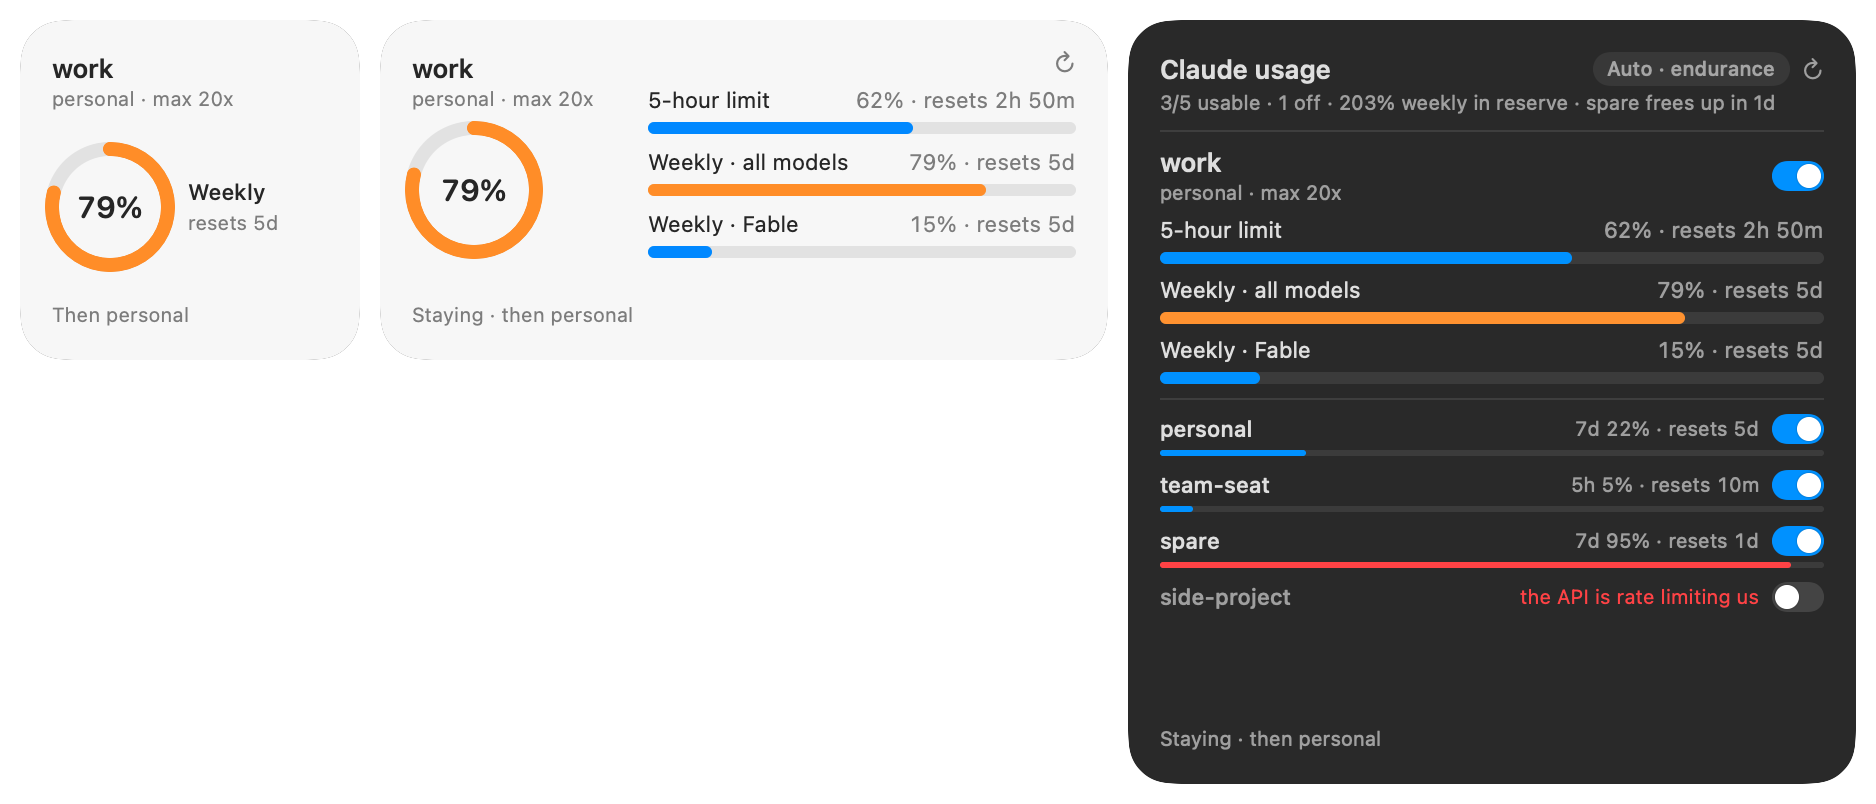
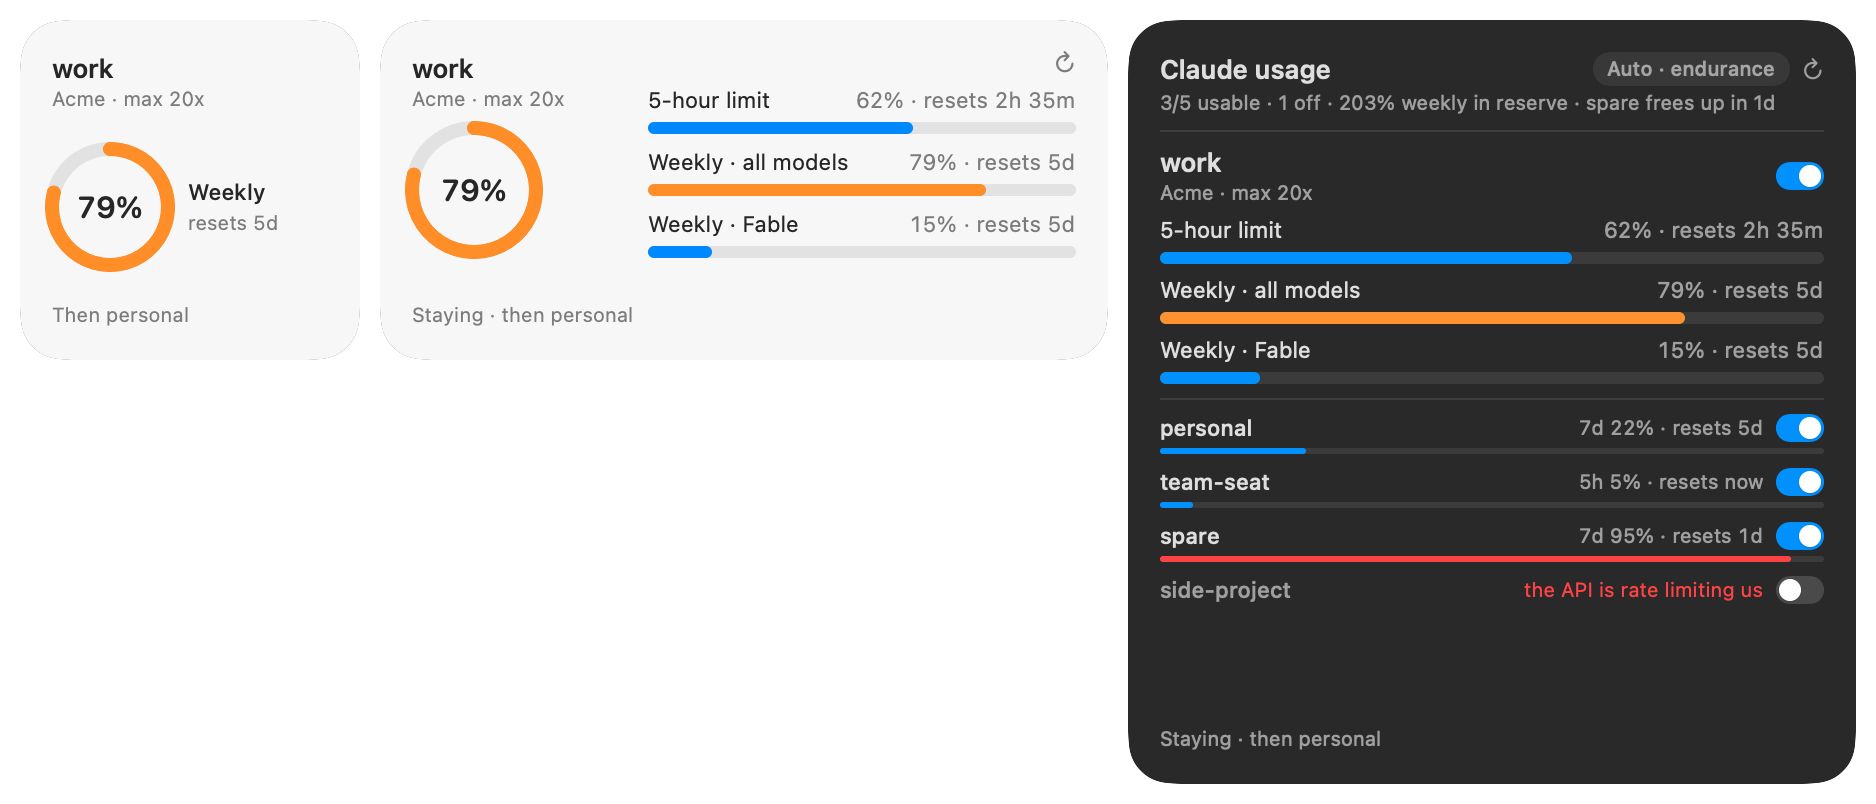
Widget switches drawn, not AppKit; README pictures from sample data
A real switch is an AppKit control, and WidgetKit shows those as a yellow
'not supported' square: the switch is now drawn, inside a plain button.

ClaudiniBar --menu-preview renders the open menu from a snapshot, light and
dark, using the same rows as the real one. The README's menu and widget
pictures are rendered from docs/sample-snapshot.json, whose accounts are made
up, so no account name or workspace is published.

diff --git a/menubar/main.swift b/menubar/main.swift
@@ -13,7 +13,9 @@ final class Bar: NSObject, NSMenuDelegate {
     var timer: Timer?
     var menuOpen = false
 
-    override init() {
+    /// `live: false` builds rows and nothing else — no engine, no timer, no
+    /// requests carried out — for drawing the menu into a picture.
+    init(live: Bool = true) {
         super.init()
         // Start on the right, near the clock. On a notched laptop macOS hides
         // whatever does not fit left of the notch, newest items first, so the
@@ -25,6 +27,7 @@ final class Bar: NSObject, NSMenuDelegate {
         let menu = NSMenu()
         menu.delegate = self
         item.menu = menu
+        guard live else { return }
         reload()
         schedule(defaultPoll)
         watchRequests()
@@ -416,6 +419,91 @@ func renderWidgetPreviews(into folder: URL, from file: URL?) {
         }
     }
     exit(0)
+}
+
+/// `ClaudiniBar --menu-preview DIR [SNAPSHOT.json]`: draw the open menu, light
+/// and dark, from the same rows the real one is built from. For the README,
+/// fed a made-up snapshot, so no real account appears in a picture.
+func renderMenuPreview(into folder: URL, from file: URL?) {
+    let data = file.flatMap { try? Data(contentsOf: $0) } ?? engine(["--json"]).1
+    guard let snapshot = try? JSONDecoder().decode(Snapshot.self, from: data) else { exit(1) }
+    try? FileManager.default.createDirectory(at: folder, withIntermediateDirectories: true)
+
+    let preview = Bar(live: false)
+    preview.snapshot = snapshot
+    preview.loadedAt = Date()
+    let menu = NSMenu()
+    preview.rebuild(menu)
+    NSStatusBar.system.removeStatusItem(preview.item)
+
+    let pad: CGFloat = 6
+    let heights = menu.items.map { $0.view?.frame.height ?? ($0.isSeparatorItem ? 11 : 22) }
+    let size = NSSize(width: menuWidth, height: heights.reduce(pad * 2, +))
+
+    for (name, look) in [("light", NSAppearance.Name.aqua), ("dark", .darkAqua)] {
+        guard let appearance = NSAppearance(named: look),
+              let canvas = NSBitmapImageRep(bitmapDataPlanes: nil, pixelsWide: Int(size.width * 2),
+                                            pixelsHigh: Int(size.height * 2), bitsPerSample: 8,
+                                            samplesPerPixel: 4, hasAlpha: true, isPlanar: false,
+                                            colorSpaceName: .deviceRGB, bytesPerRow: 0, bitsPerPixel: 0)
+        else { continue }
+        canvas.size = size
+        NSGraphicsContext.saveGraphicsState()
+        NSGraphicsContext.current = NSGraphicsContext(bitmapImageRep: canvas)
+        appearance.performAsCurrentDrawingAppearance {
+            let panel = NSBezierPath(roundedRect: NSRect(origin: .zero, size: size).insetBy(dx: 0.5, dy: 0.5),
+                                     xRadius: 10, yRadius: 10)
+            (name == "dark" ? NSColor(white: 0.17, alpha: 1) : NSColor(white: 0.965, alpha: 1)).setFill()
+            panel.fill()
+            NSColor.separatorColor.setStroke()
+            panel.stroke()
+
+            var top = size.height - pad
+            for (item, height) in zip(menu.items, heights) {
+                top -= height
+                let slot = NSRect(x: 0, y: top, width: size.width, height: height)
+                if let view = item.view {
+                    view.appearance = appearance
+                    view.setFrameSize(NSSize(width: size.width, height: height))
+                    if let rows = view.bitmapImageRepForCachingDisplay(in: view.bounds) {
+                        view.cacheDisplay(in: view.bounds, to: rows)
+                        // Over the panel: a bitmap on its own is drawn as a
+                        // copy, and would punch its transparency through it.
+                        let image = NSImage(size: slot.size)
+                        image.addRepresentation(rows)
+                        image.draw(in: slot, from: .zero, operation: .sourceOver, fraction: 1)
+                    }
+                } else if item.isSeparatorItem {
+                    NSColor.separatorColor.setFill()
+                    NSRect(x: inset, y: slot.midY, width: size.width - 2 * inset, height: 1).fill()
+                } else {
+                    // A native item: its title, and the chevron or shortcut beside it.
+                    let font = NSFont.menuFont(ofSize: 13)
+                    let title = NSAttributedString(string: item.title, attributes: [
+                        .font: font, .foregroundColor: NSColor.labelColor])
+                    title.draw(at: NSPoint(x: inset, y: slot.minY + (height - title.size().height) / 2))
+                    let hint = item.submenu != nil ? "›"
+                        : item.keyEquivalent.isEmpty ? "" : "⌘" + item.keyEquivalent.uppercased()
+                    let side = NSAttributedString(string: hint, attributes: [
+                        .font: font, .foregroundColor: NSColor.secondaryLabelColor])
+                    side.draw(at: NSPoint(x: size.width - inset - side.size().width,
+                                          y: slot.minY + (height - side.size().height) / 2))
+                }
+            }
+        }
+        NSGraphicsContext.restoreGraphicsState()
+        let file = folder.appendingPathComponent("menu-\(name).png")
+        try? canvas.representation(using: .png, properties: [:])?.write(to: file)
+        print(file.path)
+    }
+    exit(0)
+}
+
+if let flag = CommandLine.arguments.firstIndex(of: "--menu-preview"),
+   flag + 1 < CommandLine.arguments.count {
+    let arguments = CommandLine.arguments
+    renderMenuPreview(into: URL(fileURLWithPath: arguments[flag + 1]),
+                      from: flag + 2 < arguments.count ? URL(fileURLWithPath: arguments[flag + 2]) : nil)
 }
 
 if let flag = CommandLine.arguments.firstIndex(of: "--widget-previews"),

diff --git a/widget/WidgetViews.swift b/widget/WidgetViews.swift
@@ -202,27 +202,33 @@ struct RefreshButton: View {
 }
 
 /// An account's switch: off keeps it out of the rotation.
+///
+/// Drawn, inside a plain button. A widget can only show SwiftUI's own shapes
+/// and text: a real switch is an AppKit control, which WidgetKit replaces with
+/// a yellow "not supported" square — exactly what the first version showed.
 struct RotationSwitch: View {
     let profile: Profile
 
     var body: some View {
         #if WIDGET
-        Toggle(isOn: !profile.disabled,
-               intent: SetInRotation(name: profile.name, on: profile.disabled)) { EmptyView() }
-            .toggleStyle(.switch)
-            .controlSize(.mini)
-            .labelsHidden()
+        Button(intent: SetInRotation(name: profile.name, on: profile.disabled)) { knob }
+            .buttonStyle(.plain)
         #else
-        // A live switch is an AppKit control, and those cannot be rendered to
-        // an image; the previews draw one the same size instead.
-        let on = !profile.disabled
-        Capsule()
-            .fill(on ? Color.accentColor : Color.primary.opacity(0.15))
-            .frame(width: 26, height: 15)
-            .overlay(alignment: on ? .trailing : .leading) {
-                Circle().fill(.white).padding(1.5).shadow(radius: 0.5)
-            }
+        knob
         #endif
+    }
+
+    private var knob: some View {
+        let on = !profile.disabled
+        return Capsule()
+            .fill(on ? Color.blue : Color.primary.opacity(0.18))
+            .frame(width: 24, height: 14)
+            .overlay(alignment: on ? .trailing : .leading) {
+                Circle()
+                    .fill(Color.white)
+                    .padding(1.5)
+                    .shadow(color: .black.opacity(0.15), radius: 0.5, y: 0.5)
+            }
     }
 }
 

diff --git a/README.md b/README.md
@@ -36,6 +36,8 @@ with a single keypress, and hosts the auto-switch toggle.
 **ClaudiniBar** — a menu bar app showing the active profile and its remaining
 headroom, with one-click switching and the same auto toggle.
 
+![the menu, light and dark](docs/menu.png)
+
 **Claude usage widget** — the same figures on the desktop or in Notification
 Center, in three sizes, with each account's on/off switch. Comes with
 ClaudiniBar.
@@ -136,11 +138,18 @@ redraw its widgets. ClaudiniBar redraws it when something visible moves — the
 account in use, a switch, a status, a bar by 3 points — and at least every half
 hour. "Resets in" keeps counting down in between on its own.
 
-To check a layout without placing a widget, render it from the current figures:
+To check a layout without placing a widget, render it — from the current
+figures, or from a saved snapshot:
 
 ```sh
-/Applications/ClaudiniBar.app/Contents/MacOS/ClaudiniBar --widget-previews /tmp/previews
+ClaudiniBar=/Applications/ClaudiniBar.app/Contents/MacOS/ClaudiniBar
+$ClaudiniBar --widget-previews /tmp/previews
+$ClaudiniBar --menu-preview /tmp/previews docs/sample-snapshot.json
 ```
+
+The pictures in this README come from `docs/sample-snapshot.json`, a snapshot
+with made-up accounts: render from that rather than screenshotting your own
+menu, which would publish your account names and workspaces.
 
 ## Switching an account off
 
